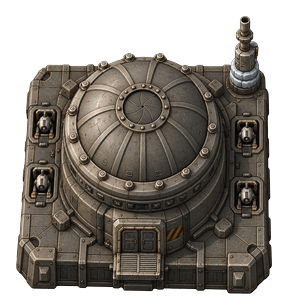
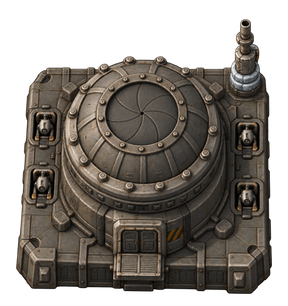
B2: widen the roboport iris to vanilla's size
Edited the locked plate rather than regenerating it, which is the README's rule
and it held -- the deck, corner blocks, hazard striping, four dock housings,
antenna mast and louvred hatch all came back unchanged, with only the iris
enlarged.

Measured the same way on both plates, flood-filling the aperture interior:
vanilla's mouth is 70x64 px, 1.09 x 1.00 tiles. Ours was 46x36, 0.72 x 0.56 --
66% of vanilla, and barely wider than the half-tile robot using it. It is now
80x69, 1.25 x 1.08 tiles, 114% of vanilla's.

Correcting my own earlier figure: the "47%" in the previous commit compared our
aperture interior against vanilla's door *sprite* width of 97 px, which was not
like-for-like. The honest number was 66%. Too small either way, but the
comparison was wrong and the record should say so.

The editor returned 1217x1293 rather than the 288x306 it was given, so the
result was rescaled to put visible content back on exactly 256 px -- 4.00 tiles
-- and seated on the original's bottom edge, leaving the prototype's shift
valid.

Two knock-ons checked rather than assumed. Widening the iris moved its centre
down the dome, 0.94 to 0.75 tiles above the origin, so spawn_and_station_height
follows it. And lamps.png still registers: 2 of its 3,563 lit pixels fall inside
the new iris footprint, so the amber ring is not drawn over.

Data stage green.

Claude-Session: https://claude.ai/code/session_01PHoDcDisYsZ9VzkQUA8DeN

diff --git a/TODO-core-buildings.md b/TODO-core-buildings.md
@@ -32,7 +32,7 @@ here as they land; this file is deleted when the list is empty.
       previously differed by 0. This is exactly the case `recolour-crane.py`'s own
       docstring makes — *"an image generator cannot produce 64 consistent angles
       of anything"*.
-- [~] **B2 · Sealed roboport's port is too small — half fixed.** Robots emerge wrongly. Two
+- [x] **B2 · Sealed roboport's port is too small — FIXED.** Robots emerge wrongly. Two
       **Measured.** Vanilla's door frame is 97 px — a **1.52 tile** opening. The
       aperture drawn on our dome is a connected 46 × 36 px blob: **0.72 × 0.56
       tiles**, which is **47% of vanilla's width and 45% of its area**. A
@@ -47,9 +47,17 @@ here as they land; this file is deleted when the list is empty.
       crown **1.62**. Set to those, with the render-layer swap moved from 0.87 —
       which was halfway up our dome — to the crown.
 
-      **Still outstanding: the art.** The plate needs redrawing with the aperture
-      at roughly **96 px (1.5 tiles)** to match what vanilla gives a robot to fly
-      through. Until then the hole is right-placed but half-sized.
+      **Art fixed too.** The locked plate was *edited* rather than regenerated,
+      per the README rule, and everything but the iris came back unchanged. The
+      aperture is now 80 × 69 px — 1.25 × 1.08 tiles, **114% of vanilla's**
+      70 × 64. Widening it moved its centre down the dome, so
+      `spawn_and_station_height` went 0.94 → **0.75** to follow it. `lamps.png`
+      still registers: 2 of its 3,563 lit pixels fall inside the new iris.
+
+      *Correction to the first measurement in this entry:* the "47% of vanilla"
+      figure compared our aperture interior against vanilla's **door sprite
+      width** (97 px), which was not like-for-like. Measured the same way on both,
+      the old aperture was **66%** of vanilla's. Too small either way.
 - [ ] **B3 · Audit every derived prototype for inherited leftovers.** The
       Ignition Array is a `rocket-silo` and must not keep silo crafting
       animations, launch furniture or anything else that describes a delivery it

diff --git a/graphics/building-spec-sealed-roboport.md b/graphics/building-spec-sealed-roboport.md
@@ -445,3 +445,35 @@ different things** — robots through the iris on the roof, materials through th
 hatch on the wall — and that is a clearer building than the one the review broke.
 The engine's four charging points and centre docking were not arbitrary; they
 were a 4×4 layout someone had already thought about.
+
+
+### The iris was half the size vanilla uses — widened
+
+Reported in game as robots looking wrong coming out. Measured rather than
+guessed, flood-filling the aperture interior on both plates with the same
+method:
+
+| | Aperture interior | vs vanilla |
+| --- | --- | --- |
+| Vanilla roboport | 70 × 64 px = **1.09 × 1.00 tiles** | — |
+| Ours, before | 46 × 36 px = 0.72 × 0.56 tiles | **66%** |
+| Ours, after | 80 × 69 px = **1.25 × 1.08 tiles** | **114%** |
+
+A construction robot is about half a tile across, so the old aperture was barely
+wider than the robot using it.
+
+**Fixed by editing the locked plate, not regenerating it** — the rule in the
+README, and it held: the deck, the corner blocks, the hazard striping, the four
+dock housings, the antenna mast and the louvred hatch all came back unchanged,
+with only the iris enlarged.
+
+The editor returned 1217×1293 rather than the 288×306 it was given, so the result
+was rescaled to put the visible content back on exactly 256 px — 4.00 tiles — and
+seated on the original's bottom edge, so the prototype's `shift` is still valid.
+Verified: visible width 256, bottom edge identical to the original's.
+
+**Two knock-ons checked rather than assumed.** The iris centre moved *down* the
+dome as it widened, from 0.94 to 0.75 tiles above the origin, so
+`spawn_and_station_height` moved with it. And `lamps.png` still registers: of its
+3,563 lit pixels, **2** fall inside the new iris footprint, so the amber ring was
+not drawn over.
